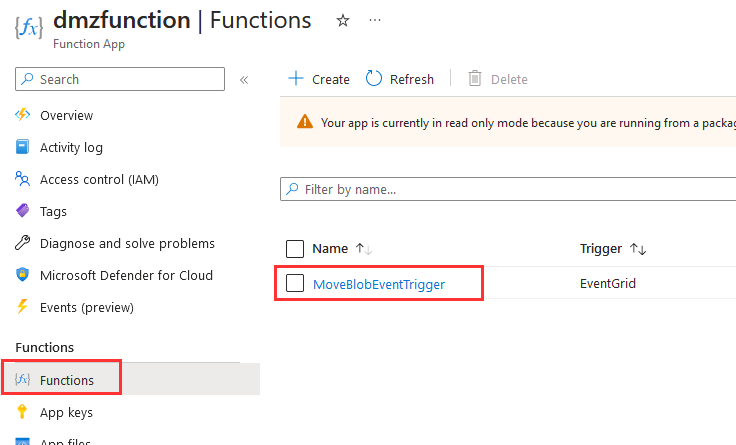
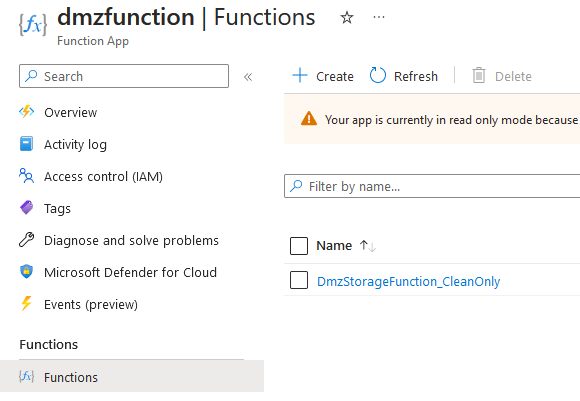
Reworked Function App deployment

diff --git a/DmzStorageFunction-CleanAndMalicious/DmzStorageFunction-CleanAndMalicious.cs b/DmzStorageFunction-CleanAndMalicious/DmzStorageFunction-CleanAndMalicious.cs
@@ -1,0 +1,168 @@
+// Default URL for triggering event grid function in the local environment.
+// http://localhost:7071/runtime/webhooks/EventGrid?functionName={functionname}
+using Azure.Identity;
+using Azure.Messaging.EventGrid;
+using Azure.Storage.Blobs;
+using Azure.Storage.Blobs.Models;
+using Azure.Storage.Blobs.Specialized;
+using Azure.Storage.Sas;
+using Microsoft.Azure.WebJobs;
+using Microsoft.Azure.WebJobs.Extensions.EventGrid;
+using Microsoft.Extensions.Logging;
+using System;
+using System.Text.Json;
+using System.Threading.Tasks;
+
+namespace DmzStorageFunction
+{
+    public static class DmzStorageFunction_CleanAndMalicious
+    {
+        private const string CleanStorageAccount = "securestoragesc";
+        private const string QuarantineStorageAccount = "quarantinestoragesc";
+        private const string AntimalwareScanEventType = "Microsoft.Security.MalwareScanningResult";
+        private const string MaliciousVerdict = "Malicious";
+        private const string CleanVerdict = "No threats found";
+
+        [FunctionName("MoveBlobEventTrigger")]
+        public static async Task RunAsync([EventGridTrigger] EventGridEvent eventGridEvent, ILogger log)
+        {
+            if (eventGridEvent.EventType != AntimalwareScanEventType)
+            {
+                log.LogInformation("Event type is not an {0} event, event type:{1}", AntimalwareScanEventType, eventGridEvent.EventType);
+                return;
+            }
+
+            var storageAccountName = eventGridEvent?.Subject?.Split("/")[^1];
+            log.LogInformation("Received new scan result for storage {0}", storageAccountName);
+            var decodedEventData = JsonDocument.Parse(eventGridEvent.Data).RootElement.ToString();
+            var eventData = JsonDocument.Parse(decodedEventData).RootElement;
+            var verdict = eventData.GetProperty("scanResultType").GetString();
+            var blobUriString = eventData.GetProperty("blobUri").GetString();
+
+            if (verdict == null || blobUriString == null)
+            {
+                log.LogError("Event data doesn't contain 'verdict' or 'blobUri' fields");
+                throw new ArgumentException("Event data doesn't contain 'verdict' or 'blobUri' fields");
+            }
+
+            if (verdict == MaliciousVerdict)
+            {
+                bool isClean = false;
+                var blobUri = new Uri(blobUriString);
+                log.LogInformation("blob {0} is malicious, moving it to Storage Account {1}", blobUri, QuarantineStorageAccount);
+                try
+                {
+                    await MoveBlobAsync(blobUri, log, isClean);
+                }
+                catch (Exception e)
+                {
+                    log.LogError(e, "Can't move blob to Storage Account '{0}'", QuarantineStorageAccount);
+                    throw;
+                }
+            }
+            if (verdict == CleanVerdict)
+            {
+                bool isClean = true;
+                var blobUri = new Uri(blobUriString);
+                log.LogInformation("blob {0} is clean, moving it to Storage Account {1}", blobUri, CleanStorageAccount);
+                try
+                {
+                    await MoveBlobAsync(blobUri, log, isClean);
+                }
+                catch (Exception e)
+                {
+                    log.LogError(e, "Can't move blob to Storage Account '{0}'", CleanStorageAccount);
+                    throw;
+                }
+            }
+        }
+
+        private static async Task MoveBlobAsync(Uri blobUri, ILogger log, bool isClean)
+        {
+            var destStorageAccountName = isClean ? CleanStorageAccount : QuarantineStorageAccount;
+            
+            DefaultAzureCredential defaultAzureCredential = new DefaultAzureCredential();
+
+            BlobUriBuilder srcBlobUri = new BlobUriBuilder(blobUri);
+            BlobUriBuilder destBlobUri = new BlobUriBuilder(new Uri($"https://{destStorageAccountName}.blob.core.windows.net/{srcBlobUri.BlobContainerName}/{srcBlobUri.BlobName}"));
+
+            BlobClient srcBlob = new BlobClient(blobUri, defaultAzureCredential);
+            BlobClient destBlob = new BlobClient(destBlobUri.ToUri(), defaultAzureCredential);
+
+            BlobContainerClient destContainer = new BlobContainerClient(destBlob.GetParentBlobContainerClient().Uri, defaultAzureCredential);
+
+            log.LogInformation("Creating {0} container if it doesn't exist", destBlobUri.BlobContainerName);
+            await destContainer.CreateIfNotExistsAsync();
+
+            if (!await srcBlob.ExistsAsync())
+            {
+                log.LogError("blob {0} doesn't exist", blobUri);
+                return;
+            }
+
+            log.LogInformation("MoveBlob: Copying blob to {0}", destBlob.Uri);
+
+            // Lease the source blob to prevent changes during the copy operation
+            BlobLeaseClient sourceBlobLease = new(srcBlob);
+
+            // Create a Uri object with a SAS token appended - specify Read (r) permissions
+            Uri sourceBlobSASURI = await GenerateUserDelegationSAS(srcBlob);
+
+            try
+            {
+                await sourceBlobLease.AcquireAsync(BlobLeaseClient.InfiniteLeaseDuration);
+
+                // Start the copy operation and wait for it to complete
+                CopyFromUriOperation copyOperation = await destBlob.StartCopyFromUriAsync(sourceBlobSASURI);
+                await copyOperation.WaitForCompletionAsync();
+            }
+            catch (Azure.RequestFailedException ex)
+            {
+                // Handle the exception
+                log.LogInformation("Failed to move blob. Exception: {0}", ex);
+            }
+            finally
+            {
+                // Release the lease once the copy operation completes - Delete the source blob
+                await sourceBlobLease.ReleaseAsync();
+                log.LogInformation("MoveBlob: Deleting source blob {0}", srcBlob.Uri);
+                await srcBlob.DeleteAsync();
+                log.LogInformation("MoveBlob: blob moved successfully");
+            }
+        }
+
+        async static Task<Uri> GenerateUserDelegationSAS(BlobClient sourceBlob)
+        {
+            BlobServiceClient blobServiceClient =
+                sourceBlob.GetParentBlobContainerClient().GetParentBlobServiceClient();
+
+            // Get a user delegation key for the Blob service that's valid for 1 day
+            UserDelegationKey userDelegationKey =
+                await blobServiceClient.GetUserDelegationKeyAsync(DateTimeOffset.UtcNow,
+                                                                  DateTimeOffset.UtcNow.AddHours(1));
+
+            // Create a SAS token that's also valid for 1 day
+            BlobSasBuilder sasBuilder = new BlobSasBuilder()
+            {
+                BlobContainerName = sourceBlob.BlobContainerName,
+                BlobName = sourceBlob.Name,
+                Resource = "b",
+                StartsOn = DateTimeOffset.UtcNow,
+                ExpiresOn = DateTimeOffset.UtcNow.AddDays(1)
+            };
+
+            // Specify read permissions for the SAS
+            sasBuilder.SetPermissions(BlobSasPermissions.Read);
+
+            // Add the SAS token to the blob URI
+            BlobUriBuilder blobUriBuilder = new BlobUriBuilder(sourceBlob.Uri)
+            {
+                // Specify the user delegation key
+                Sas = sasBuilder.ToSasQueryParameters(userDelegationKey,
+                                                      blobServiceClient.AccountName)
+            };
+
+            return blobUriBuilder.ToUri();
+        }
+    }
+}

diff --git a/DmzStorageFunction-CleanOnly/DmzStorageFunction-CleanOnly.cs b/DmzStorageFunction-CleanOnly/DmzStorageFunction-CleanOnly.cs
@@ -13,17 +13,16 @@ using System;
 using System.Text.Json;
 using System.Threading.Tasks;
 
-namespace FunctionEventTrigger
+
+namespace DmzStorageFunction
 {
-    public static class MoveBlobEventTrigger
+    public static class DmzStorageFunction_CleanOnly
     {
         private const string CleanStorageAccount = "securestoragesc";
-        private const string QuarantineStorageAccount = "quarantinestoragesc";
         private const string AntimalwareScanEventType = "Microsoft.Security.MalwareScanningResult";
-        private const string MaliciousVerdict = "Malicious";
-        private const string CleanVerdict = "No threats found";
+        private const string MaliciousVerdict = "No threats found";
 
-        [FunctionName("MoveBlobEventTrigger")]
+        [FunctionName("DmzStorageFunction_CleanOnly")]
         public static async Task RunAsync([EventGridTrigger] EventGridEvent eventGridEvent, ILogger log)
         {
             if (eventGridEvent.EventType != AntimalwareScanEventType)
@@ -47,27 +46,11 @@ namespace FunctionEventTrigger
 
             if (verdict == MaliciousVerdict)
             {
-                bool isClean = false;
-                var blobUri = new Uri(blobUriString);
-                log.LogInformation("blob {0} is malicious, moving it to Storage Account {1}", blobUri, QuarantineStorageAccount);
-                try
-                {
-                    await MoveBlobAsync(blobUri, log, isClean);
-                }
-                catch (Exception e)
-                {
-                    log.LogError(e, "Can't move blob to Storage Account '{0}'", QuarantineStorageAccount);
-                    throw;
-                }
-            }
-            if (verdict == CleanVerdict)
-            {
-                bool isClean = true;
                 var blobUri = new Uri(blobUriString);
                 log.LogInformation("blob {0} is clean, moving it to Storage Account {1}", blobUri, CleanStorageAccount);
                 try
                 {
-                    await MoveBlobAsync(blobUri, log, isClean);
+                    await MoveBlobAsync(blobUri, log);
                 }
                 catch (Exception e)
                 {
@@ -77,14 +60,12 @@ namespace FunctionEventTrigger
             }
         }
 
-        private static async Task MoveBlobAsync(Uri blobUri, ILogger log, bool isClean)
+        private static async Task MoveBlobAsync(Uri blobUri, ILogger log)
         {
-            var destStorageAccountName = isClean ? CleanStorageAccount : QuarantineStorageAccount;
-            
             DefaultAzureCredential defaultAzureCredential = new DefaultAzureCredential();
 
             BlobUriBuilder srcBlobUri = new BlobUriBuilder(blobUri);
-            BlobUriBuilder destBlobUri = new BlobUriBuilder(new Uri($"https://{destStorageAccountName}.blob.core.windows.net/{srcBlobUri.BlobContainerName}/{srcBlobUri.BlobName}"));
+            BlobUriBuilder destBlobUri = new BlobUriBuilder(new Uri($"https://{CleanStorageAccount}.blob.core.windows.net/{srcBlobUri.BlobContainerName}/{srcBlobUri.BlobName}"));
 
             BlobClient srcBlob = new BlobClient(blobUri, defaultAzureCredential);
             BlobClient destBlob = new BlobClient(destBlobUri.ToUri(), defaultAzureCredential);

diff --git a/README.md b/README.md
@@ -8,7 +8,7 @@ Defender for Storage's Malware Scanning feature secures storage accounts by scan
 
 A publicly accessible DMZ Storage Account is the initial landing zone, or target, for blob uploads. Defender for Storage is enabled on the DMZ Storage Account allowing Malware Scanning to scan all uploaded or modified blobs. When the scan is complete, Defender writes the scan results to a blob index tag on each individual blob. The result can either be `Malicious` or `No threats found`.
 
-Defender for Storage settings are used to stream the scan results to a custom Event Grid Topic. A Function App subscribes to the Event Grid, receives the scan results, and runs the [C# sample code](function_code.cs) which reads the scan result and moves the blob to the appropriate Storage Account (Clean or Quarantine) that is secured behind Private Endpoints.
+Defender for Storage settings are used to stream the scan results to a custom Event Grid Topic. A Function App subscribes to the Event Grid, and receives the scan results which triggers the Azure Function. The Function reads the scan result and moves the blob to the appropriate Storage Account (Clean or Quarantine) that is secured behind Private Endpoints.
 
 # Deployment
 
@@ -57,18 +57,25 @@ Follow this [how-to deployment guide](https://learn.microsoft.com/en-us/azure/ev
 
 ### Function App
 
-Create a Function App in the same resource group as the DMZ Storage Account. When deploying, specify the *Azure Event Grid trigger* template. The provided sample c# code used .NET 6.
+Create a Function App in the same Resource Group and Region as the DMZ Storage Account using the **.NET Runtime Stack version 6** on **Windows**. Select a **Functions Premium** hosting plan if you need advanced networking cnofigurations like VNet Integration or Private Endpoint ([see more in the next section](#function-app-network-configurations)). The Function App requires a Storage Account to operate. Select a Storage Account other than the DMZ Storage Account. 
+
+![functionAppcreate1](/images/functionapp-create-1.png)
 
 Resources:
 
 - [Develop Azure Functions by using Visual Studio Code](https://learn.microsoft.com/en-us/azure/azure-functions/functions-develop-vs-code?tabs=csharp)
 - [Use a function as an event handler for Event Grid events](https://learn.microsoft.com/en-us/azure/event-grid/handler-functions)
 
+#### Function App Network Configurations
 If public access to the Storage Account is blocked with the Storage Account Firewall, additional steps need to be taken to allow the Function App to access the Storage Account. There are a few options:
 
 1. If using Private Endpoints with the Storage Account, [Enable Virtual Network Integration](https://learn.microsoft.com/en-us/azure/azure-functions/functions-networking-options?tabs=azure-cli#virtual-network-integration) on the Function App. After integrating the Function App into the VNet where the Private Endpoints are deployed, it will leverage the VNet's DNS settings and linked Private DNS Zones to resolve the Storage Accounts to their Private Endpoints. This requires a Premium App Service Plan. 
 3. If using VNet whitelisting on the Storage Account Firewall, [Enable Virtual Network Integration](https://learn.microsoft.com/en-us/azure/azure-functions/functions-networking-options?tabs=azure-cli#virtual-network-integration) on the Function App. Add the Function Apps VNet/Subnet to the Storage Account VNet whitelist.
 2. If using IP whitelisting on the Storage Account Firewall, [locate the Function App public IPs](https://learn.microsoft.com/en-us/azure/azure-functions/ip-addresses?tabs=portal#find-outbound-ip-addresses) and add them to the whitelist.
+
+Example Scenario: A destination Storage Account for clean blobs will deny all public access and have a Private Endpoint deployed to a VNet called **DMZ-VNet**. The Storage Account is only accessible via the Private Endpoint. For the Function App to access the Private Endpoint, it needs to be injected into the DMZ-VNet. This can be configured at Function App creation time like the screenshot below. It can also be configured in the **Network** settings of the Function App after deployment.
+
+![functionapp-create-2.png](/images/functionapp-create-2.png)
 
 ## Permissions
 
@@ -121,16 +128,58 @@ When Defender for Storage enablement is complete, navigate to the **Storage Acco
 
 ## Deploy Code to Function App
 
-Edit the Function App code to use the [C# sample code](function_code.cs). Update two variables in the `MoveBlobEventTrigger` class with the names of the destination Storage Accounts.
+In this tutorial we will use one of two sample Function App projects. We download the sample project files, edit the storage account names to the ones deployed at the beginning of this guide, upload the edited project to our own repo, then use the Azure Portal to point our Function App to our own repo that contains the edited project. Having a github account is a prerequisite for these steps.
+
+[1. Clone the sample Function App Repo](#1-clone-the-sample-function-app-repo)<br />
+[2. Update the Storage Account Name](#2-update-the-storage-account-name)<br />
+[3. Upload edited code to your repo](#3-upload-edited-code-to-your-repo)<br />
+[4. Deploy to the Function App using the Azure Portal](#4-deploy-code-to-the-function-app-using-the-azure-portal)
+
+### 1. Clone the sample Function App Repo
+
+Choose which Function App to use and download the files:
+
+- [DmzStorageFunction-CleanOnly](https://github.com/zcabrer/DmzStorageFunction-CleanOnly): Moves scanned blobs to a destination storage account that are marked as clean. Blobs marked as malicious remain in the DMZ Storage Account. Requires two Storage Accounts - DMZ Storage Account and Clean Storage Account.
+- [DmzStorageFunction-CleanAndMalicious](https://github.com/zcabrer/DmzStorageFunction-CleanAndMalicious): Moves scanned blobs to one of two destination storage accounts depending on the scan results. Requires three Storage Accounts total - DMZ Storage Account, Clean Storage Account, and Malicious Storage Account.
+
+Download a .zip of the function by going to **Code** -> **Download ZIP**. Extract the files to a folder on your local system.
+
+![deployfunction-1](/images/deployfunction-1.png)
+
+### 2. Update the Storage Account Name
+
+Open the folder with the extracted project and open the C# file. It will be either ```DmzStorageFunction-CleanAndMalicious.cs``` or ```DmzStorageFunction-CleanOnly.cs```. Open the file in a text editor like Visual Studio Code or Notepad. Edit the Storage Account name variable/s with the name of the destination Storage Accounts. Save the file after making the edits.
+
+For example, if the Storage Account deployed for the clean blobs is **mycleanstorageaccount**, update the code:
 
 ```c#
-        private const string CleanStorageAccount = "Name of Storage Account for clean blobs";
-        private const string QuarantineStorageAccount = "Name of Storage Account for malicious blobs";
+namespace DmzStorageFunction
+{
+    public static class DmzStorageFunction_CleanOnly
+    {
+        private const string CleanStorageAccount = "mycleanstorageaccount"; <--------------------------------HERE
+        private const string AntimalwareScanEventType = "Microsoft.Security.MalwareScanningResult";
 ```
 
-[This guide](https://learn.microsoft.com/en-us/azure/azure-functions/functions-develop-vs-code?tabs=csharp) helps with developing and publishing Azure Functions using Visual Studio Code.
+### 3. Upload edited code to your repo
 
-Confirm the Function is published in the portal:
+Create a new public repo in your Github account. Upload all extracted files to the new repo (**Add file** -> **Upload files**)
+
+![deployfunction3](/images/functionapp-create-3.png)
+
+ Copy the url for your repo - like ```https://github.com/zcabrer/DmzStorageFunction```
+
+### 4. Deploy code to the Function App using the Azure Portal
+
+Now we will deploy the code to the Function App by pointing it to the repo URL copied in step 3. Navigate to the Function App in the Azure Portal and select **Deplolyment Center**. Select **External Git** from the dropdown. Enter your repo URL in **Repository** and select the branch (such as **master** or **main**). Click **Save**.
+
+![functionapp-create-4](/images/functionapp-create-4.png)
+
+It takes several minutes to deploy the code to the Function App. Navigate to the **Logs** tab to view the deployment status. The deployment should complete in 5-10 minutes then you will see success in the log.
+
+![functionapp-create-5](/images/functionapp-create-5.png)
+
+Verify the Functions is listed under **Functions**.
 
 ![confirm published function](images/deploy-function-code-confirm-deployed.png)
 
@@ -154,6 +203,6 @@ Use Function App log streaming in the [Azure Portal](https://learn.microsoft.com
 
 
 # Resources
-- The C# sample in this repo heavily leaned on [this sample C# code](https://learn.microsoft.com/en-us/azure/defender-for-cloud/defender-for-storage-configure-malware-scan#option-2-function-app-based-on-event-grid-events) from Defender for Storage Microsoft documentation and [this code from the Blob Storage SDK Documentation](https://learn.microsoft.com/en-us/azure/storage/blobs/storage-blob-copy-async-dotnet).
+- The C# sample code in linked repos heavily leans on [this sample C# code](https://learn.microsoft.com/en-us/azure/defender-for-cloud/defender-for-storage-configure-malware-scan#option-2-function-app-based-on-event-grid-events) from Defender for Storage Microsoft documentation and [this code from the Blob Storage SDK Documentation](https://learn.microsoft.com/en-us/azure/storage/blobs/storage-blob-copy-async-dotnet).
 - [Malware Scanning in Defender for Storage](https://learn.microsoft.com/en-us/azure/defender-for-cloud/defender-for-storage-malware-scan)
 - [Setting up response to Malware Scanning](https://learn.microsoft.com/en-us/azure/defender-for-cloud/defender-for-storage-configure-malware-scan)

diff --git a/DmzStorageFunction-CleanAndMalicious/README.md b/DmzStorageFunction-CleanAndMalicious/README.md
@@ -1,0 +1,4 @@
+# DmzStorageFunction-CleanAndMalicious
+This is sample Azure Function project code used for this [Defender for Storage DMZ Solution](https://github.com/zcabrer/Defender-for-Storage-DMZ-Solution).
+
+Check the solution guide for details on how to use this sample project.

diff --git a/DmzStorageFunction-CleanOnly/README.md b/DmzStorageFunction-CleanOnly/README.md
@@ -1,0 +1,4 @@
+# DmzStorageFunction-CleanOnly
+This is sample Azure Function project code used for this [Defender for Storage DMZ Solution](https://github.com/zcabrer/Defender-for-Storage-DMZ-Solution). 
+
+Check the solution guide for details on how to use this sample project.
